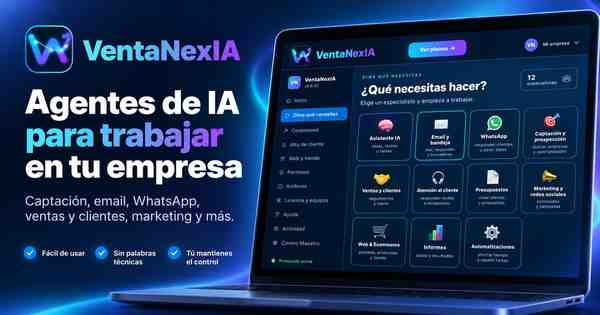
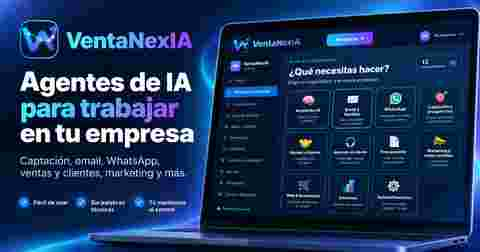
Fix social preview with static VentaNexIA image

diff --git a/index.html b/index.html
@@ -1,4 +1,4 @@
-<!doctype html><html lang="es"><head><meta charset="utf-8"><meta name="viewport" content="width=device-width,initial-scale=1"><title>VentaNexIA | Software de IA para gestionar y automatizar tu empresa</title><meta name="description" content="VentaNexIA es un software con agentes de IA para pymes: captación real, email, Ventas y clientes, atención al cliente, presupuestos, marketing, ecommerce, administración, informes y automatizaciones guiadas."><link rel="canonical" href="https://www.ventanexia.es/"><meta property="og:type" content="website"><meta property="og:site_name" content="VentaNexIA"><meta property="og:title" content="VentaNexIA | Agentes de IA para trabajar en tu empresa"><meta property="og:description" content="Software con agentes de IA para pymes: captación, email, Ventas y clientes, ecommerce, presupuestos, atención e informes con conexiones y permisos controlados."><meta property="og:url" content="https://www.ventanexia.es/"><meta property="og:image" content="https://www.ventanexia.es/api/og?v=20260919"><meta property="og:image:secure_url" content="https://www.ventanexia.es/api/og?v=20260919"><meta property="og:image:type" content="image/png"><meta property="og:image:width" content="600"><meta property="og:image:height" content="315"><meta name="twitter:card" content="summary_large_image"><meta name="twitter:title" content="VentaNexIA | Agentes de IA para tu empresa"><meta name="twitter:description" content="Captación, email, Ventas y clientes, ecommerce, atención, presupuestos, marketing e informes desde un único software."><meta name="twitter:image" content="https://www.ventanexia.es/api/og?v=20260919"><script type="application/ld+json">{"@context":"https://schema.org","@type":"SoftwareApplication","name":"VentaNexIA","applicationCategory":"BusinessApplication","operatingSystem":"Windows, Web","url":"https://www.ventanexia.es/","publisher":{"@type":"Organization","name":"ECOJAFER S.L.","taxID":"B02910206","address":{"@type":"PostalAddress","addressLocality":"Segur de Calafell","postalCode":"43882","addressRegion":"Tarragona","addressCountry":"ES"}}}</script><style>
+<!doctype html><html lang="es"><head><meta charset="utf-8"><meta name="viewport" content="width=device-width,initial-scale=1"><title>VentaNexIA | Software de IA para gestionar y automatizar tu empresa</title><meta name="description" content="VentaNexIA es un software con agentes de IA para pymes: captación real, email, Ventas y clientes, atención al cliente, presupuestos, marketing, ecommerce, administración, informes y automatizaciones guiadas."><link rel="canonical" href="https://www.ventanexia.es/"><meta property="og:type" content="website"><meta property="og:site_name" content="VentaNexIA"><meta property="og:title" content="VentaNexIA | Agentes de IA para trabajar en tu empresa"><meta property="og:description" content="Software con agentes de IA para pymes: captación, email, Ventas y clientes, ecommerce, presupuestos, atención e informes con conexiones y permisos controlados."><meta property="og:url" content="https://www.ventanexia.es/"><meta property="og:image" content="https://www.ventanexia.es/assets/ventanexia-social-preview.jpg?v=20260919b"><meta property="og:image:secure_url" content="https://www.ventanexia.es/assets/ventanexia-social-preview.jpg?v=20260919b"><meta property="og:image:type" content="image/jpeg"><meta property="og:image:width" content="1200"><meta property="og:image:height" content="630"><meta name="twitter:card" content="summary_large_image"><meta name="twitter:title" content="VentaNexIA | Agentes de IA para tu empresa"><meta name="twitter:description" content="Captación, email, Ventas y clientes, ecommerce, atención, presupuestos, marketing e informes desde un único software."><meta name="twitter:image" content="https://www.ventanexia.es/assets/ventanexia-social-preview.jpg?v=20260919b"><script type="application/ld+json">{"@context":"https://schema.org","@type":"SoftwareApplication","name":"VentaNexIA","applicationCategory":"BusinessApplication","operatingSystem":"Windows, Web","url":"https://www.ventanexia.es/","publisher":{"@type":"Organization","name":"ECOJAFER S.L.","taxID":"B02910206","address":{"@type":"PostalAddress","addressLocality":"Segur de Calafell","postalCode":"43882","addressRegion":"Tarragona","addressCountry":"ES"}}}</script><style>
 :root{--bg:#031523;--bg2:#061d32;--card:#08223a;--line:#1a628c;--cyan:#43ddff;--vio:#8c42ff;--muted:#a8c7d9;--green:#5ce2ae}*{box-sizing:border-box}html{scroll-behavior:smooth}body{margin:0;background:radial-gradient(circle at 78% 0,#183f76 0,#081f38 34%,#031523 72%);color:#fff;font-family:Inter,system-ui,Segoe UI,Arial,sans-serif}a{color:inherit}.wrap{width:min(1180px,92%);margin:auto}.top{position:sticky;top:0;z-index:30;background:#031523ef;border-bottom:1px solid #194f70;backdrop-filter:blur(12px)}.nav{min-height:72px;display:flex;align-items:center;gap:22px}.brand{display:inline-flex;align-items:center;gap:10px;font-size:23px;font-weight:950;text-decoration:none;background:linear-gradient(90deg,#fff,#4bdfff,#9647ff);-webkit-background-clip:text;color:transparent}.brand-logo{display:inline-block;width:44px;height:44px;flex:0 0 44px;border-radius:11px;background:#fff url('/assets/ventanexia-logo.svg') center -3px/50px auto no-repeat;box-shadow:0 8px 24px #0005,0 0 0 1px #43ddff55}.footer-brand .brand-logo{width:38px;height:38px;flex-basis:38px;background-size:44px auto;border-radius:9px}.links{margin-left:auto;display:flex;gap:20px}.links a{text-decoration:none;color:#cadce8;font-size:14px}.btn{display:inline-flex;align-items:center;justify-content:center;border-radius:12px;padding:13px 18px;border:1px solid #2f7ca5;background:#092a45;text-decoration:none;font-weight:900}.primary{border:0;background:linear-gradient(90deg,#1cc4f4,#8738ff);box-shadow:0 14px 38px #5831d83a}.small{padding:10px 14px;font-size:13px}.hero{padding:66px 0 54px;border-bottom:1px solid #16506f}.hero-grid{display:grid;grid-template-columns:1.03fr .97fr;gap:40px;align-items:center}.ey{display:inline-flex;border:1px solid #2ec9f1;border-radius:999px;padding:7px 12px;font-size:12px;font-weight:900;color:#66e6ff}.hero h1{font-size:60px;line-height:1.02;letter-spacing:-2px;margin:16px 0}.hero h1 span{background:linear-gradient(90deg,#4be8ff,#4c94ff,#a044ff);-webkit-background-clip:text;color:transparent}.sub{font-size:21px;font-weight:800;line-height:1.4}.copy{font-size:17px;line-height:1.65;color:#c7dbe7}.actions{display:flex;gap:12px;flex-wrap:wrap;margin:23px 0}.proof{display:grid;grid-template-columns:repeat(4,1fr);gap:10px}.proof div{border:1px solid #194f70;border-radius:12px;padding:12px;background:#061c31}.proof b{display:block;color:#5fe4ff}.proof span{display:block;color:#9fbdd1;font-size:11px;margin-top:4px}.panel{border:1px solid #29afe9;border-radius:22px;background:linear-gradient(180deg,#0b2948,#061b30);padding:22px;box-shadow:0 30px 80px #0006}.panel h2{margin:0 0 6px}.panel p{color:#b7cfe0}.fields{display:grid;grid-template-columns:1fr 1fr;gap:10px;margin:15px 0}.field{border:1px solid #246e98;background:#031725;border-radius:9px;padding:11px;color:#9fbdd0}.result{display:grid;grid-template-columns:36px 1fr auto;gap:9px;align-items:center;border:1px solid #174f71;border-radius:11px;padding:9px;margin-top:9px;background:#071f36}.result i{display:grid;place-items:center;width:36px;height:36px;border-radius:9px;background:#0e4e7b;font-style:normal}.result small{color:#8fb2c7}.tag{font-size:9px;padding:4px 7px;border-radius:999px;background:#0b594a;color:#64ffc3}.section{padding:68px 0}.alt{background:#04192b}.head{text-align:center;max-width:850px;margin:0 auto 30px}.head h2{font-size:39px;margin:9px 0}.head p{font-size:17px;color:var(--muted);line-height:1.6}.video-shell{border:1px solid #2ebbf3;border-radius:24px;padding:22px;background:linear-gradient(180deg,#092846,#061a2e);box-shadow:0 25px 70px #0005}.video-grid{display:grid;grid-template-columns:1.15fr .85fr;gap:26px;align-items:center}.video-card{position:relative;border-radius:18px;overflow:hidden;border:1px solid #2a6d94;background:#02111e;aspect-ratio:16/9}.video-card iframe{width:100%;height:100%;border:0;display:block}.video-copy h3{font-size:31px;margin:8px 0 12px}.video-copy p{color:#bfd4e2;line-height:1.65}.checks{display:grid;gap:9px;margin:18px 0}.checks div{display:flex;gap:9px;color:#d8e8f2}.checks b{color:#67e8ff}.demo-grid{display:grid;grid-template-columns:repeat(3,1fr);gap:17px}.demo,.feature,.step,.trust{border:1px solid var(--line);background:var(--card);border-radius:18px}.demo{padding:18px;display:flex;flex-direction:column;min-height:290px}.demo h3{margin:8px 0 6px}.demo p{color:#9fbdd1;margin:0 0 13px}.preview{flex:1;border-radius:12px;background:#eef4f8;color:#153047;padding:14px;margin-bottom:14px}.bubble{padding:9px 10px;border-radius:10px;background:#fff;margin:8px 0;font-size:12px}.bubble.me{background:#c7f3d5;margin-left:25%}.mail{font-size:12px;line-height:1.5}.demo-more{margin-top:24px;border:1px solid #205f83;border-radius:18px;background:#051a2d;padding:18px}.demo-more h3{margin:0 0 6px;font-size:20px}.demo-more p{margin:0 0 14px;color:#9fbdd1}.demo-more-links{display:flex;gap:10px;flex-wrap:wrap}.demo-more-links a{display:inline-flex;align-items:center;gap:7px;text-decoration:none;border:1px solid #2a7199;background:#071f36;border-radius:999px;padding:10px 13px;font-size:13px;font-weight:850}.security-box{margin-top:24px;border:1px solid #43dca8;border-radius:20px;background:linear-gradient(135deg,#062b2b,#071f36);padding:22px;box-shadow:0 20px 50px #0003}.security-grid{display:grid;grid-template-columns:auto 1fr;gap:16px;align-items:start}.security-icon{width:54px;height:54px;border-radius:15px;display:grid;place-items:center;background:#0b594a;font-size:27px}.security-box h3{margin:0 0 8px;font-size:24px}.security-box p{margin:0;color:#c0d8df;line-height:1.65}.security-points{display:grid;grid-template-columns:repeat(3,1fr);gap:10px;margin-top:15px}.security-point{border:1px solid #246b70;background:#061f2d;border-radius:12px;padding:12px;font-size:12px;line-height:1.5;color:#bcd2dc}.security-point b{display:block;color:#79f2c4;margin-bottom:4px}
 .worklab{background:linear-gradient(180deg,#031421 0,#061c30 50%,#041725 100%);border-top:1px solid #164f70;border-bottom:1px solid #164f70;position:relative;overflow:hidden}.worklab:before{content:"";position:absolute;inset:0;background:radial-gradient(circle at 50% 15%,#1b5a8b33,transparent 35%);pointer-events:none}.case-tabs{display:flex;gap:10px;justify-content:center;flex-wrap:wrap;margin:26px 0 24px}.case-tab{border:1px solid #275d7e;background:#061a2d;color:#cfe4ef;border-radius:999px;padding:10px 15px;font-weight:850;cursor:pointer;transition:.2s}.case-tab:hover,.case-tab.active{background:linear-gradient(90deg,#153e68,#5732a3);border-color:#4ccff7;color:#fff;box-shadow:0 8px 28px #143b6338}.case-stage{border:1px solid #20698f;border-radius:24px;background:linear-gradient(180deg,#071f35,#041624);padding:24px;box-shadow:0 30px 70px #0005}.case-title-row{display:flex;align-items:flex-start;justify-content:space-between;gap:18px;margin-bottom:22px}.case-kicker{font-size:11px;letter-spacing:.08em;color:#63e5ff;font-weight:900;text-transform:uppercase}.case-title{font-size:27px;margin:5px 0 0}.case-status{font-size:11px;padding:7px 10px;border-radius:999px;border:1px solid #1d6d74;background:#073b3d;color:#72f2c4;font-weight:800;white-space:nowrap}.process{display:grid;grid-template-columns:repeat(5,1fr);gap:12px;position:relative}.process:before{content:"";position:absolute;left:8%;right:8%;top:29px;height:2px;background:linear-gradient(90deg,#34d9ff,#6778ff,#9d4dff);opacity:.65}.pstep{position:relative;z-index:1}.pnode{width:58px;height:58px;border-radius:50%;display:grid;place-items:center;margin:0 auto 12px;background:#061827;border:2px solid #37c8f1;box-shadow:0 0 0 7px #061827,0 0 30px #32b7ff35;font-weight:950}.pcard{height:100%;border:1px solid #194f70;background:#071b2f;border-radius:16px;padding:14px}.pcard small{display:block;color:#62dbff;font-weight:800;margin-bottom:5px}.pcard h4{margin:0 0 7px;font-size:15px}.pcard p{margin:0;color:#9fbdd0;font-size:12px;line-height:1.48}.internal-action{display:grid;grid-template-columns:.9fr 1.1fr;gap:18px;margin-top:20px}.resolution-card,.internal-mail{border:1px solid #235f83;border-radius:17px;background:#05192a;padding:17px}.resolution-card h4,.internal-mail h4{margin:0 0 10px}.resolution-card p{color:#b7ccda;line-height:1.6;margin:0}.internal-mail{background:#edf4f8;color:#18324a}.internal-mail .mail-head{display:grid;grid-template-columns:64px 1fr;gap:6px 9px;font-size:12px;padding-bottom:10px;border-bottom:1px solid #cedbe4}.internal-mail .mail-body{font-size:12px;line-height:1.55;margin-top:11px}.internal-mail b{color:#0d2943}.case-foot{display:flex;align-items:center;justify-content:space-between;gap:18px;margin-top:20px;padding-top:18px;border-top:1px solid #184a68}.case-foot strong{font-size:19px}.case-foot span{color:#9ebed1;font-size:13px}.autonomy{margin-top:40px}.autonomy-grid{display:grid;grid-template-columns:repeat(4,1fr);gap:14px}.auto-card{border:1px solid #1c5b7d;border-radius:16px;background:#061b2e;padding:16px}.auto-card .auto-label{display:inline-flex;border-radius:999px;padding:5px 8px;font-size:10px;font-weight:900;margin-bottom:10px}.auto-card:nth-child(1) .auto-label{background:#0b594a;color:#76f1bd}.auto-card:nth-child(2) .auto-label{background:#103d63;color:#72d7ff}.auto-card:nth-child(3) .auto-label{background:#4b3a18;color:#ffd781}.auto-card:nth-child(4) .auto-label{background:#4c2445;color:#ff9cda}.auto-card h4{margin:0 0 7px}.auto-card p{margin:0;color:#9fbdd0;font-size:12px;line-height:1.5}.dept-strip{margin-top:22px;border:1px solid #1d5d80;border-radius:16px;padding:14px;background:#051725;text-align:center;color:#b9d1df}.dept-strip b{color:#fff}.features{display:grid;grid-template-columns:repeat(4,1fr);gap:14px}.feature{padding:17px;display:flex;flex-direction:column;min-height:235px}.ico{width:46px;height:46px;border-radius:12px;display:grid;place-items:center;font-size:22px;background:linear-gradient(135deg,#168fff,#723aff);margin-bottom:10px}.feature h3{margin:0 0 7px}.feature p{font-size:13px;color:#a8c4d7;line-height:1.5}.need{font-size:11px;line-height:1.45;color:#c7dbe7;background:#051725;border:1px solid #164c6b;border-radius:10px;padding:9px;margin:8px 0 12px}.need b{color:#fff}.feature .btn{margin-top:auto;align-self:flex-start;padding:9px 11px;font-size:12px}.steps{display:grid;grid-template-columns:repeat(3,1fr);gap:16px}.step{padding:20px;display:flex;gap:13px}.num{flex:0 0 42px;height:42px;border-radius:50%;display:grid;place-items:center;background:linear-gradient(135deg,#1ebcff,#7638ff);font-weight:900}.step h3{margin:2px 0 5px}.step p{margin:0;color:#a8c4d7;font-size:13px;line-height:1.5}.trustgrid{display:grid;grid-template-columns:repeat(4,1fr) 1.4fr;gap:13px}.trust{padding:16px}.trust strong{display:block}.trust p{font-size:12px;line-height:1.5;color:#a8c4d7}.quote{border-color:#2bc5f7;font-size:18px;font-weight:850}.plans{display:grid;grid-template-columns:repeat(3,1fr);gap:18px}.plan{border:1px solid #24688f;border-radius:18px;padding:22px;background:#071f36}.plan.hot{border-color:#6e54ff;box-shadow:0 18px 50px #4f2fb62e}.price{font-size:38px;font-weight:950}.plan ul{padding-left:18px;color:#b5ccdb;line-height:1.7}.cta{padding:36px 0;background:linear-gradient(90deg,#0a3a79,#1a2b8f,#6325b8);border-top:1px solid #2dbcf2;border-bottom:1px solid #2dbcf2}.cta-row{display:flex;gap:22px;align-items:center}.cta h2{margin:0}.cta p{margin:5px 0;color:#c9dbe7}.cta .actions{margin-left:auto}footer{padding:0;color:#c9d4dc;background:#151515;border-top:1px solid #66523f}.footer-accent{height:3px;background:linear-gradient(90deg,#c8a57d,#8660ff,#39c7ef)}.footer-main{display:grid;grid-template-columns:1.35fr .8fr .8fr 1fr;gap:34px;padding:42px 0 30px}.footer-logo{font-size:23px;font-weight:950;color:#fff;margin-bottom:10px}.footer-tagline{color:#b8c4cc;line-height:1.55;font-size:13px;max-width:330px}.footer-company{font-size:13px;line-height:1.75;color:#d9dee2;margin-top:16px}.footer-company a,.footer-links a{color:#d9dee2;text-decoration:none}.footer-title{font-size:11px;letter-spacing:.12em;text-transform:uppercase;color:#d4b184;font-weight:900;margin-bottom:12px}.footer-links{display:grid;gap:9px}.footer-trust{border:1px solid #4a4640;background:#201f1d;border-radius:13px;padding:14px}.footer-trust strong{display:block;color:#f1d3ad;margin-bottom:6px}.footer-trust p{margin:0;color:#bcbfc2;font-size:12px;line-height:1.5}.footer-bottom{border-top:1px solid #333;padding:14px 0 17px}.footer-bottom-inner{display:flex;align-items:center;justify-content:space-between;gap:20px;font-size:12px;color:#8f989f}.foot{display:flex;align-items:center;gap:20px}.foot nav{margin-left:auto;display:flex;gap:16px}.foot a{text-decoration:none;color:#9db8ca}@media(max-width:960px){.footer-main{grid-template-columns:1fr 1fr}.links{display:none}.hero-grid,.video-grid{grid-template-columns:1fr}.hero h1{font-size:46px}.demo-grid,.steps,.plans{grid-template-columns:1fr}.features{grid-template-columns:repeat(2,1fr)}.proof,.trustgrid{grid-template-columns:1fr 1fr}.process{grid-template-columns:1fr}.process:before{display:none}.pstep{display:grid;grid-template-columns:58px 1fr;gap:12px;align-items:start}.pnode{margin:0}.internal-action{grid-template-columns:1fr}.autonomy-grid{grid-template-columns:1fr 1fr}.security-points{grid-template-columns:1fr}.cta-row,.foot{align-items:flex-start;flex-direction:column}.cta .actions,.foot nav{margin-left:0}}@media(max-width:600px){.footer-main{grid-template-columns:1fr}.footer-bottom-inner{flex-direction:column;align-items:flex-start}.hero h1{font-size:38px}.features,.proof,.trustgrid,.autonomy-grid{grid-template-columns:1fr}.head h2{font-size:31px}.video-copy h3{font-size:26px}.brand{font-size:20px}.brand-logo{width:40px;height:40px;flex-basis:40px;background-size:46px auto}.case-title-row,.case-foot{flex-direction:column;align-items:flex-start}.case-stage{padding:17px}.case-tabs{justify-content:flex-start}.case-tab{font-size:12px}.security-grid{grid-template-columns:1fr}.security-icon{width:48px;height:48px}}
 .devices{background:linear-gradient(180deg,#04192b,#061d32);border-top:1px solid #174e70;border-bottom:1px solid #174e70}.device-grid{display:grid;grid-template-columns:1fr 1fr;gap:20px;align-items:stretch}.device-card{border:1px solid #246b92;border-radius:20px;background:linear-gradient(160deg,#08243e,#06182b);padding:24px;box-shadow:0 20px 55px #0004}.device-card h3{font-size:26px;margin:10px 0}.device-card p{color:#b7cedd;line-height:1.6}.device-icon{font-size:42px}.device-points{display:grid;gap:10px;margin-top:16px}.device-points div{border:1px solid #1a5375;border-radius:11px;background:#051725;padding:11px;color:#c7dbe7}.device-points b{color:#65e2ff}.device-login{margin-top:18px;border:1px solid #6b50ff;background:linear-gradient(135deg,#102a54,#3b2579);border-radius:16px;padding:17px}.device-login strong{display:block;font-size:18px}.device-login span{display:block;color:#d9cffb;font-size:13px;margin-top:5px}@media(max-width:760px){.device-grid{grid-template-columns:1fr}}
